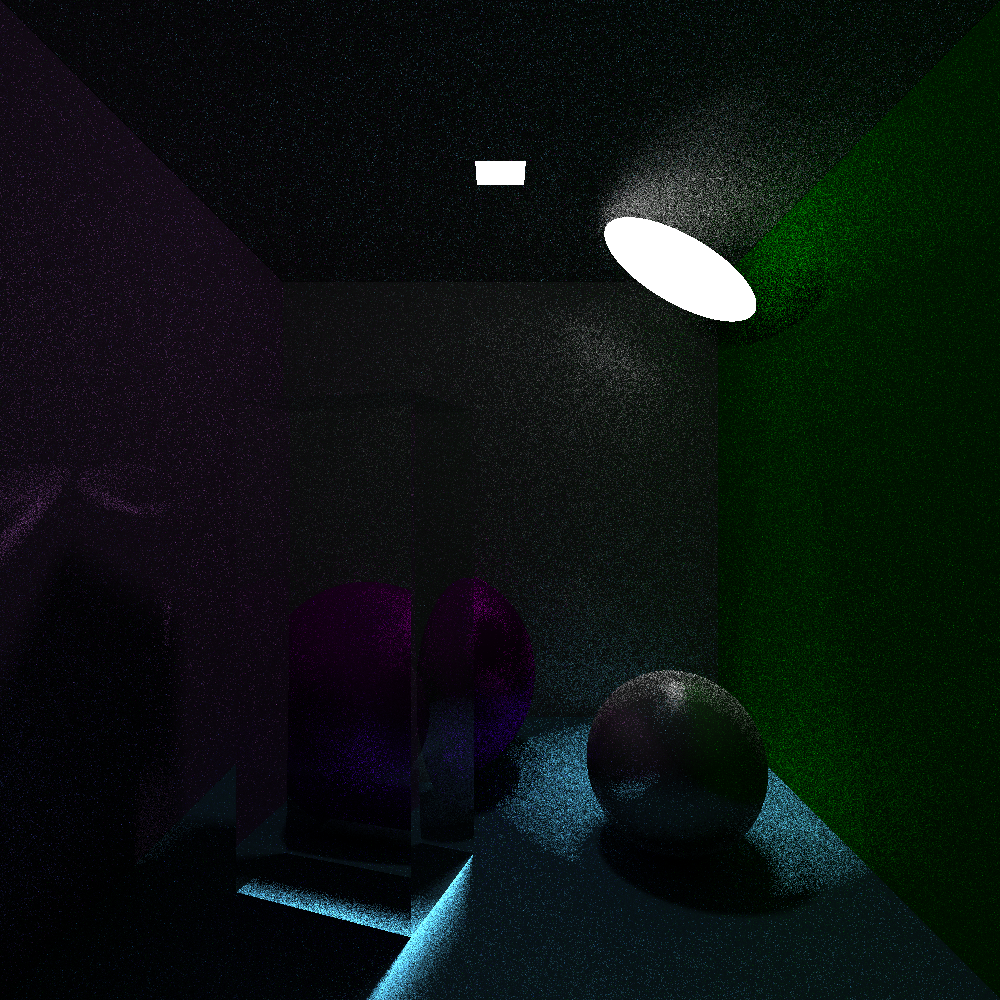
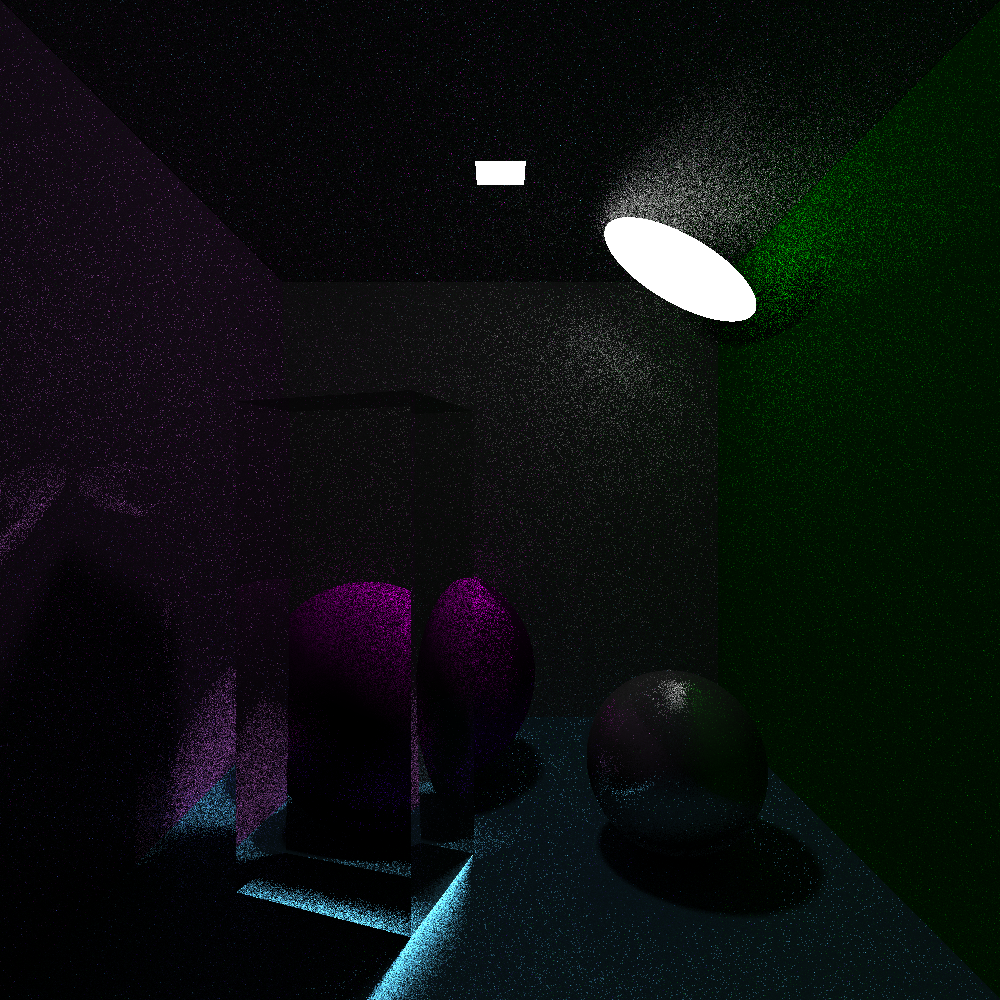
Correct spotlight direction

diff --git a/Project/Improved-Ray-Tracer/src/Scene.cpp b/Project/Improved-Ray-Tracer/src/Scene.cpp
@@ -252,7 +252,7 @@ vec3 Scene::lighting(const vec3& _point, const vec3& _normal, const vec3& _view,
           double dot_normal_light = dot(_normal, to_light_source);
 
           if ((!does_intersect || t_intersect > distance(lightPosition, point)) &&
-              (!al->isSpotlight() || (al->isSpotlight() && to_light_source[1] >= al->getAperture())))
+              (!al->isSpotlight() || (al->isSpotlight() && dot(al->getDirection(), to_light_source) >= al->getAperture())))
           {
             if (dot_normal_light > 0)
             {

diff --git a/Project/Improved-Ray-Tracer/src/Light.h b/Project/Improved-Ray-Tracer/src/Light.h
@@ -19,6 +19,7 @@ class Light : public Object {
 
         virtual vec3   getLightPosition(int light_index) const { return center; }
         virtual vec3   getLightIntensity() const { return color / getNumberOfLights(); }
+        virtual vec3   getDirection()      const { return vec3(0); }
         virtual int    getNumberOfLights() const { return 1; }
         virtual double getSurface       () const { return 0.0; };
         virtual double getAperture      () const { return 0.0; };

diff --git a/Project/Improved-Ray-Tracer/src/Spotlight.h b/Project/Improved-Ray-Tracer/src/Spotlight.h
@@ -46,6 +46,8 @@ public:
   vec3   getLightPosition(int light_index) const override;
   double getSurface()                      const override;
 
+  vec3   getDirection()                    const override { return direction; }
+
 private:
   vec3   direction;
   double radius;
